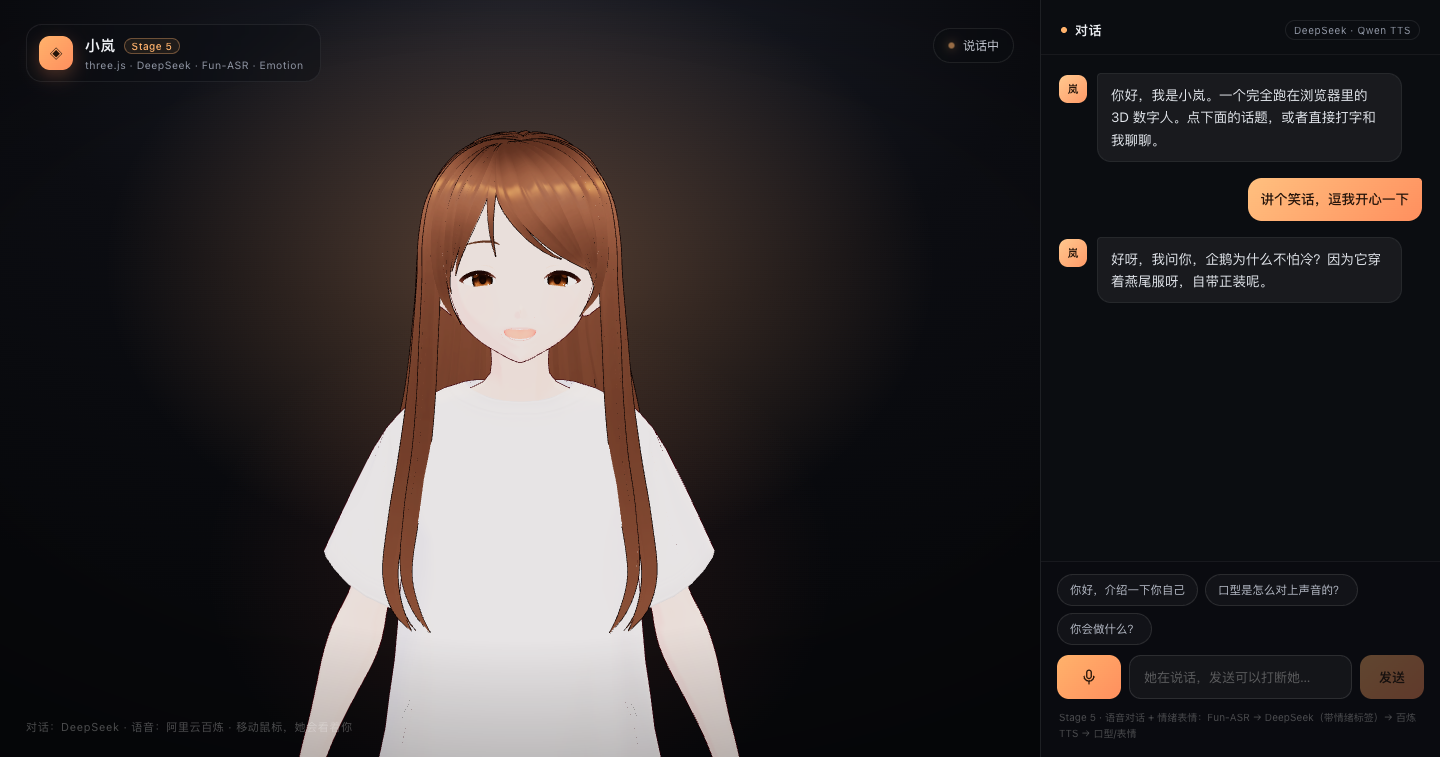
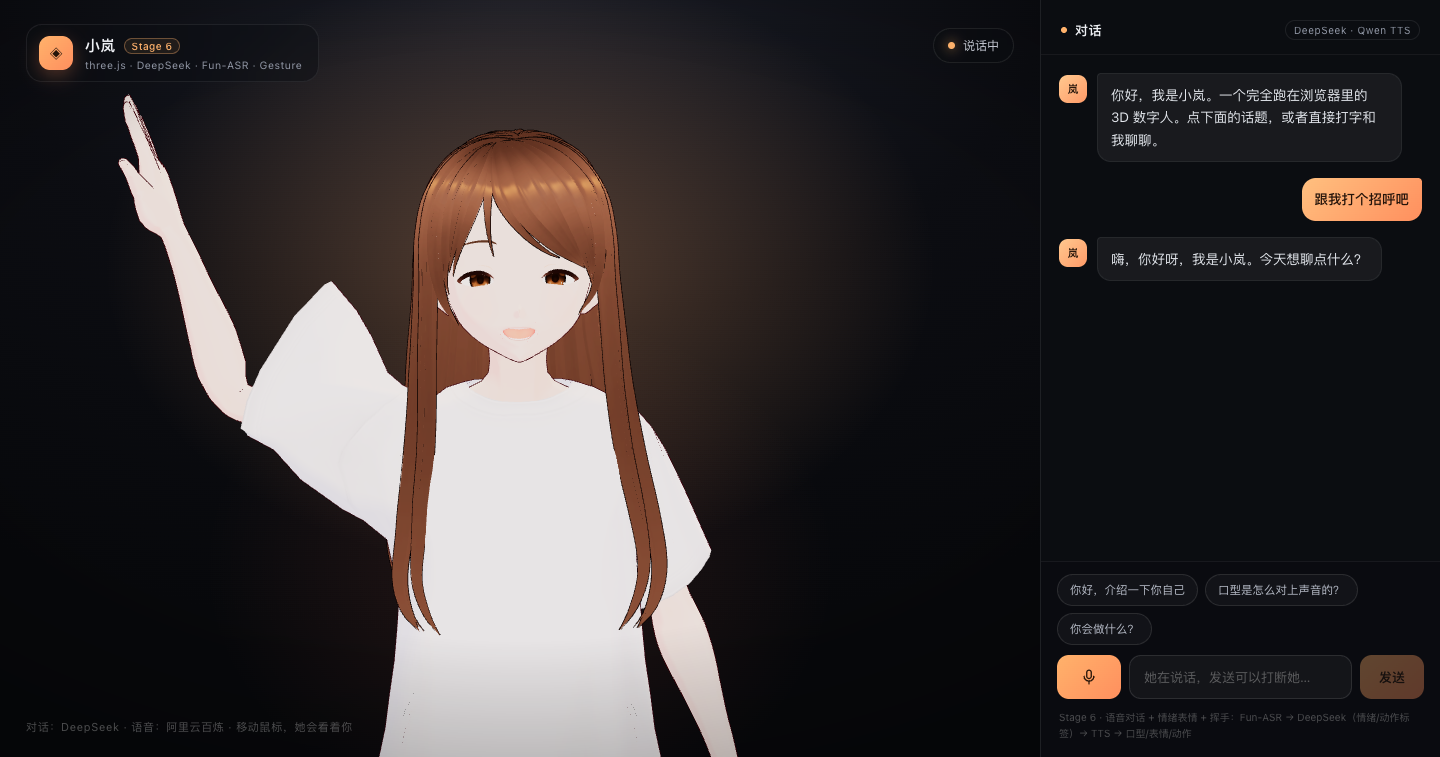
feat: 打招呼挥手动作（[wave] 标签 + 骨骼包络）

diff --git a/src/avatar/Avatar.tsx b/src/avatar/Avatar.tsx
@@ -25,6 +25,20 @@ type SmoothState = {
 
 const clamp = (v: number, min: number, max: number) => Math.min(max, Math.max(min, v))
 
+/** 挥手：抬手 → 摆动 → 放下，用包络控制 */
+const WAVE_DURATION = 1.8
+function waveOffset(age: number) {
+  const rise = Math.min(1, age / 0.22)
+  const fall = Math.min(1, Math.max(0, (WAVE_DURATION - age) / 0.32))
+  const env = Math.max(0, Math.min(rise, fall))
+  return {
+    // 上臂抬到胸口上方约 30°，小臂再折起来，手落在头侧
+    raise: 1.5 * env,
+    bend: -1.1 * env,
+    sway: Math.sin(age * 9) * 0.14 * env,
+  }
+}
+
 /** 一次性小动作：按时间指数衰减，不需要动画片段 */
 function gestureOffset(type: EmotionTag, age: number) {
   const decay = Math.exp(-age * 2.2)
@@ -40,6 +54,8 @@ function gestureOffset(type: EmotionTag, age: number) {
       return { x: 0.03 * decay, y: 0.13 * decay, z: 0.15 * decay }
     case 'angry':
       return { x: 0.06 * decay, y: 0, z: 0 }
+    case 'wave':
+      return { x: -0.02 * decay, y: 0.04 * decay, z: 0.05 * decay }
     default:
       return { x: 0, y: 0, z: 0.04 * decay }
   }
@@ -135,6 +151,8 @@ export function Avatar({ url, onProgress, onLoaded, onError }: Props) {
     const em = vrm.expressionManager
     const camera = state.camera
 
+    const age = performance.now() / 1000 - driver.gesture.start
+
     // ---- 视线：头和脖子跟着镜头，眼睛再补一点微扫视 ----
     const head = vrm.humanoid.getNormalizedBoneNode('head')
     const neck = vrm.humanoid.getNormalizedBoneNode('neck')
@@ -153,7 +171,6 @@ export function Avatar({ url, onProgress, onLoaded, onError }: Props) {
       s.pitch += (pitch - s.pitch) * k
 
       const speak = driver.speaking ? 1 : 0
-      const age = performance.now() / 1000 - driver.gesture.start
       const gesture = driver.gesture.start ? gestureOffset(driver.gesture.type, age) : { x: 0, y: 0, z: 0 }
       head.rotation.set(
         s.pitch + Math.sin(t * 0.9) * 0.012 + Math.sin(t * 6.2) * 0.006 * speak + gesture.x,
@@ -172,10 +189,20 @@ export function Avatar({ url, onProgress, onLoaded, onError }: Props) {
       spine.rotation.y = Math.sin(t * 0.31) * 0.014
     }
 
-    // ---- 手臂自然下垂 + 轻微摆动 ----
+    // ---- 手臂：自然下垂 + 轻微摆动；挥手时临时抬起右臂 ----
     const sway = Math.sin(t * 0.8) * 0.02
+    const waving = driver.gesture.type === 'wave' && age < WAVE_DURATION ? waveOffset(age) : null
     vrm.humanoid.getNormalizedBoneNode('leftUpperArm')?.rotation.set(0.05, 0.04 + sway, -1.24 + sway * 0.5)
-    vrm.humanoid.getNormalizedBoneNode('rightUpperArm')?.rotation.set(0.05, -0.04 - sway, 1.24 - sway * 0.5)
+    if (waving) {
+      vrm.humanoid
+        .getNormalizedBoneNode('rightUpperArm')
+        ?.rotation.set(0.05, -0.04, 1.24 - waving.raise + waving.sway)
+    } else {
+      vrm.humanoid.getNormalizedBoneNode('rightUpperArm')?.rotation.set(0.05, -0.04 - sway, 1.24 - sway * 0.5)
+    }
+    vrm.humanoid
+      .getNormalizedBoneNode('rightLowerArm')
+      ?.rotation.set(0, 0.14, waving?.bend ?? 0)
 
     // ---- 眨眼：随机间隔，偶尔连眨 ----
     if (t > s.nextBlink) {

diff --git a/src/components/ChatPanel.tsx b/src/components/ChatPanel.tsx
@@ -134,7 +134,7 @@ export function ChatPanel({
         <p className="footnote">
           {llmMode === 'cloud' && ttsMode === 'cloud'
             ? micAvailable
-              ? 'Stage 5 · 语音对话 + 情绪表情：Fun-ASR → DeepSeek（带情绪标签）→ 百炼 TTS → 口型/表情'
+              ? 'Stage 6 · 语音对话 + 情绪表情 + 挥手：Fun-ASR → DeepSeek（情绪/动作标签）→ TTS → 口型/表情/动作'
               : 'Stage 3 · DeepSeek 流式对话 · 百炼 qwen-audio-3.1-tts-flash · 口型来自字级时间戳'
             : llmMode === 'cloud'
               ? 'DeepSeek 对话 · 语音回落到浏览器合成（未配置 DASHSCOPE_API_KEY）'

diff --git a/src/App.tsx b/src/App.tsx
@@ -343,9 +343,9 @@ export default function App() {
           <div className="brand-mark">◈</div>
           <div>
             <h1>
-              小岚 <span className="brand-tag">Stage 5</span>
+              小岚 <span className="brand-tag">Stage 6</span>
             </h1>
-            <p>three.js · DeepSeek · Fun-ASR · Emotion</p>
+            <p>three.js · DeepSeek · Fun-ASR · Gesture</p>
           </div>
         </header>
 

diff --git a/src/avatar/driver.ts b/src/avatar/driver.ts
@@ -46,6 +46,8 @@ export function emotionToExpression(tag: EmotionTag): Partial<EmotionState> {
       return { relaxed: 0.5 }
     case 'shy':
       return { happy: 0.25, relaxed: 0.3 }
+    case 'wave':
+      return { happy: 0.5 }
     case 'thinking':
       return { relaxed: 0.35 }
     default:

diff --git a/src/chat/emotion.ts b/src/chat/emotion.ts
@@ -14,6 +14,7 @@ export const EMOTION_TAGS = [
   'thinking',
   'excited',
   'shy',
+  'wave',
 ] as const
 
 export type EmotionTag = (typeof EMOTION_TAGS)[number]

diff --git a/README.md b/README.md
@@ -1,12 +1,12 @@
 # 3d-agents
 
-浏览器里的实时 3D 数字人 —— **Stage 5：会听、会说、有表情**。
+浏览器里的实时 3D 数字人 —— **Stage 6：会听、会说、有表情、会挥手**。
 
 用 Three.js 实时渲染的 VRM 数字人，会看着你、眨眼呼吸，说话时口型跟着音频走，
-还会根据对话内容笑、皱眉、歪头。现在链路是完整的语音对话 + 情绪：
+会根据对话内容笑、皱眉、歪头，你跟她打招呼她还会抬手挥一挥：
 
 ```
-麦克风 → VAD → Fun-ASR → DeepSeek（输出 [情绪] 标签）→ TTS → 口型 + 表情 + 小动作
+麦克风 → VAD → Fun-ASR → DeepSeek（输出 [情绪]/[wave] 标签）→ TTS → 口型 + 表情 + 动作
 ```
 
 ![预览](docs/preview.png)
@@ -88,6 +88,10 @@ System prompt 要求每句开头带 `[happy]` / `[sad]` / `[thinking]` 等标签
 VRoid 的 `happy` 预设会眯眼，给 0.75 以上她会一直闭着眼像睡着了；0.45 才是「在笑」。
 说完 2.5 秒后表情自动回到平静，不然会一直挂着笑。
 
+**11. 挥手是骨骼旋转 + 包络，不是动画片段。**
+`[wave]` 标签触发 1.8 秒的包络：上臂绕 Z 抬起、小臂折起、再叠一个正弦摆动。
+好处是零资源、随时可调；坏处是肘部比较僵，没有 IK，手也做不出掌心朝向的变化。
+
 ## 可调参数（都在 .env）
 
 | 变量 | 默认 | 说明 |
@@ -148,6 +152,7 @@ public/models/sample.vrm
 - 每句话单独开一个 ASR 任务，句间有 ~100ms 的连接开销。
 - 麦克风采集用了 `ScriptProcessorNode`（已废弃但兼容性最好），生产建议换 AudioWorklet。
 - 情绪标签依赖模型遵守 prompt，偶尔会漏或一句话多个标签（取最后一个）。
+- 动作是程序化骨骼旋转，没有 IK / 动画片段，挥手时肘部偏僵、手会靠近画面边缘。
 - VRM 只有 5 个预设表情，复杂情绪（比如「尴尬」「得意」）只能靠组合近似。
 - 口型是 5 个元音的近似；写实资产需要 ARKit 52 形状。
 - 没有后处理、次表面散射、毛发物理 —— 真实感受资产与光照上限。
@@ -155,7 +160,7 @@ public/models/sample.vrm
 ## 下一步
 
 - 写实资产（MetaHuman / CC4）+ TSL 皮肤 + 后处理
-- 手势库：挥手、摊手、思考摸下巴（现在只有程序化点头/歪头）
+- 动作库：摊手、思考摸下巴、告别挥手（现在是单个 [wave]）
 - 多轮打断优化：VAD + 语义端点（semantic endpointing）
 
 ## 模型授权
